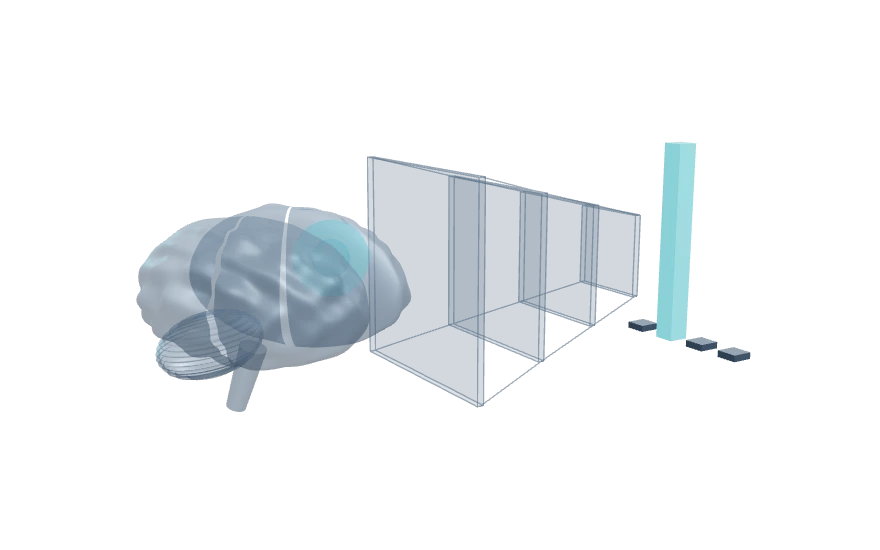
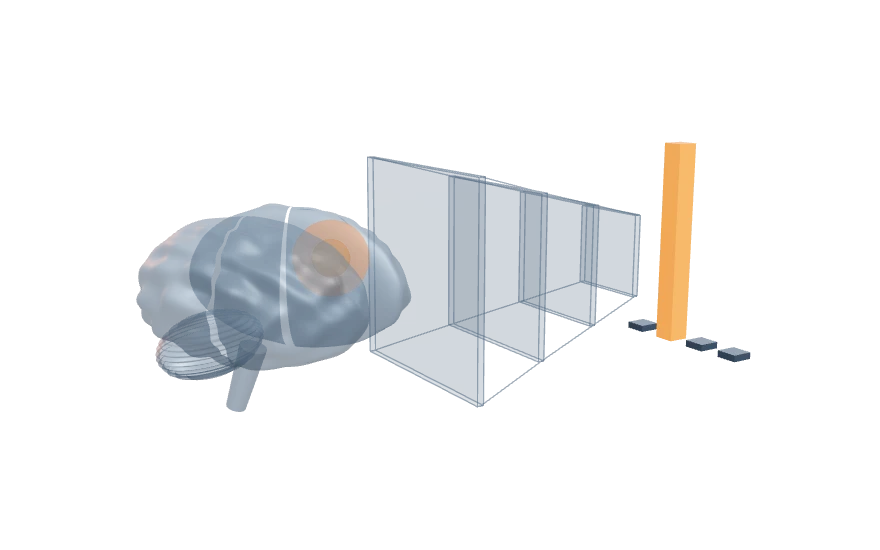
Orange and black theme, detection boxes on every headline, tighter sections
- Theme: light mode is a light neutral page with near-black ink and a deep
  orange accent (#A84300); dark mode keeps its slate and uses #FF8A3D.
  Every text colour stays at WCAG AA (lowest 5.0:1). The favicon, the
  contact terminal card, the four WebGL scenes and the six case-study
  stills (re-rendered from the scenes) follow.
- HeadlineBox: each section heading, the contact heading, case-study
  titles and the 404 title get an object-detection box with a small mono
  label ("work 0.94"), drawn once when it scrolls into view, then kept.
  The label is aria-hidden.
- Hello section: the spoken languages line is removed; the three about
  paragraphs share one size and colour.
- Less space between sections (section padding 24–40px, tighter gaps
  under divider lines and headings).

Changed region(s): [[0.7364, 0.2473, 0.7977, 0.6182], [0.3375, 0.4018, 0.4295, 0.5564]]

diff --git a/src/theme/theme.js b/src/theme/theme.js
@@ -6,15 +6,15 @@
 // alternative the navbar toggle switches to.
 export const theme = {
   colors: {
-    // The look comes from X-ray inspection: a light box (light theme) or film
-    // (dark theme) in cool slate, with one teal for annotations.
+    // Black and orange: near-black ink on a light page (light theme) or X-ray
+    // film in dark slate (dark theme), with one orange for annotations.
     // Every text colour reaches WCAG AA (4.5:1) on bg, surface and surfaceSoft.
     // Ratios below are listed as bg / surface / surfaceSoft.
     //
     // Dark: X-ray film. Blue-black, not neutral black.
     //   text 15.0 / 13.7 / 12.6    soft 10.1 / 9.2 / 8.5    muted 5.9 / 5.4 / 4.9
-    //   accent 8.9 / 8.2 / 7.5    highlight 11.5 / 10.5 / 9.6
-    //   onAccent on accent: 8.9
+    //   accent 7.6 / 7.0 / 6.4    highlight 10.2 / 9.3 / 8.6
+    //   onAccent on accent: 7.6
     dark: {
       bg: "#0E1822",
       surface: "#15212C",
@@ -26,34 +26,33 @@ export const theme = {
       muted: "#8796A4",
       // Decorative only (bullets, scrollbar): too low contrast for text.
       mutedSoft: "#4A5B6C",
-      accent: "#4FC7D6",
+      accent: "#FF8A3D",
       onAccent: "#0E1822",
       status: "#6fd88f",
-      // A paler teal from the accent family.
-      highlight: "#8ADCE6",
+      // A paler orange from the accent family.
+      highlight: "#FFB37D",
     },
-    // Default. Light box: cool film-white and slate ink.
-    //   text 14.2 / 16.1 / 13.1    soft 9.2 / 10.5 / 8.5    muted 5.2 / 5.9 / 4.8
-    //   accent 5.3 / 6.0 / 4.8    highlight 7.2 / 8.1 / 6.6
-    //   onAccent (white) on accent: 6.0
+    // Default. A light page with near-black ink and a deep orange (neutral greys, no blue).
+    //   text 16.8 / 18.9 / 15.5    soft 12.1 / 13.6 / 11.2    muted 6.2 / 6.9 / 5.7
+    //   accent 5.4 / 6.1 / 5.0    highlight 7.1 / 8.0 / 6.6
+    //   onAccent (white) on accent: 6.1
     light: {
-      bg: "#EEF1F4",
+      bg: "#F2F2F0",
       surface: "#FFFFFF",
-      surfaceSoft: "#E3E8ED",
-      border: "#CDD5DD",
-      borderStrong: "#A9B4BF",
-      text: "#17222E",
-      soft: "#33414F",
-      // Slightly darker than #5B6B7A, which was only 4.45:1 on surfaceSoft.
-      muted: "#566676",
+      surfaceSoft: "#E9E9E6",
+      border: "#D6D6D2",
+      borderStrong: "#B5B5B0",
+      text: "#111111",
+      soft: "#2E2E2E",
+      muted: "#5A5A5A",
       // Decorative only, like dark's mutedSoft.
-      mutedSoft: "#A9B4BF",
-      accent: "#0C6E7A",
+      mutedSoft: "#B5B5B0",
+      accent: "#A84300",
       onAccent: "#FFFFFF",
-      // Graphics only (the status dot): 3.0 / 3.5 / 2.8, below the 4.5:1 needed for text.
+      // Graphics only (the status dot): below the 4.5:1 needed for text.
       status: "#1E9E55",
-      // A deeper teal from the accent family.
-      highlight: "#095863",
+      // A deeper orange from the accent family.
+      highlight: "#8A3700",
     },
   },
 
@@ -104,7 +103,7 @@ export const theme = {
   },
 
   spacing: {
-    section: "clamp(36px, 4.5vw, 64px)",
+    section: "clamp(24px, 3vw, 40px)", // top and bottom padding of every section (kept tight)
     gutter: "24px",
   },
 

diff --git a/src/components/ui/HeadlineBox.css b/src/components/ui/HeadlineBox.css
@@ -1,0 +1,63 @@
+/* ---------- a headline's detection box (HeadlineBox.jsx) ----------
+   Same look as the hero name's box (Hero.css .detect-box): a 1px accent frame
+   8px around the text, nearly square corners, a small mono label on top. */
+
+.headline-box {
+  --box-colour: var(--accent);
+  --box-ink: var(--on-accent);
+
+  position: relative;
+  display: inline-block;
+}
+
+/* The frame. */
+.headline-box::before {
+  position: absolute;
+  inset: -8px;
+  border: 1px solid var(--box-colour);
+  border-radius: 4px; /* kept nearly square: a real bounding box */
+  pointer-events: none;
+  content: "";
+  animation: headline-box-in 0.7s var(--ease) 0.25s both;
+}
+
+.headline-box-label {
+  position: absolute;
+  bottom: calc(100% + 11px); /* 8px frame padding + 3px gap, like the hero's */
+  left: -9px;
+  padding: 1px 6px;
+  border-radius: 4px 4px 4px 0; /* square where it meets its box */
+  background: var(--box-colour);
+  color: var(--box-ink);
+  font-family: var(--font-mono); /* detection output: the one place mono belongs */
+  font-size: 10.5px;
+  font-weight: 500;
+  letter-spacing: 0;
+  line-height: 1.4;
+  white-space: nowrap;
+  animation: headline-box-in 0.7s var(--ease) 0.25s both;
+}
+
+@keyframes headline-box-in {
+  from {
+    opacity: 0;
+    transform: scale(1.03);
+  }
+  to {
+    opacity: 1;
+    transform: scale(1);
+  }
+}
+
+/* Inside a Reveal, wait until it scrolls into view, then draw once. */
+.js .reveal:not(.is-visible) .headline-box::before,
+.js .reveal:not(.is-visible) .headline-box-label {
+  animation-play-state: paused;
+}
+
+@media print {
+  .headline-box::before,
+  .headline-box-label {
+    display: none;
+  }
+}

diff --git a/src/components/Connect/Connect.css b/src/components/Connect/Connect.css
@@ -2,15 +2,16 @@
    A screen, so it stays dark in BOTH themes. Its colours live here as custom
    properties (asked for this card), the one exception to theme.js holding every
    colour; nothing below uses a raw hex value. Contrast on --term-bg:
-   text 15.5:1, muted 6.1:1, link grey 12.9:1, accent on the say-hi fill 7.0:1. */
+   text 15.5:1, muted 6.1:1, link grey 12.3:1, orange accent on the say-hi fill 6.3:1
+   (5.1:1 on hover). */
 .term {
   --term-bg: #0b141c;
   --term-border: #26364a;
   --term-text: #e6ecf1;
   --term-muted: #8796a4;
-  --term-accent: #4fc7d6;
+  --term-accent: #ff8a3d;
   --term-link: #c9d4dd;
-  --term-accent-rgb: 79, 199, 214;
+  --term-accent-rgb: 255, 138, 61;
 
   padding: clamp(20px, 4vw, 40px);
   border: 1px solid var(--term-border);
@@ -29,6 +30,12 @@
   box-shadow:
     inset 0 0 0 1px rgba(var(--term-accent-rgb), 0.08),
     0 24px 48px -24px rgba(23, 34, 46, 0.35);
+}
+
+/* The heading's detection box in the card's own orange (the page accent is too dark here). */
+.term .headline-box {
+  --box-colour: var(--term-accent);
+  --box-ink: var(--term-bg);
 }
 
 .term :focus-visible {
@@ -69,7 +76,7 @@
 /* ---------- content ---------- */
 
 .term-heading {
-  margin: 16px 0 10px;
+  margin: 38px 0 10px; /* 16px, plus room for the detection box's label */
   color: var(--term-text);
   font-family: var(--font-display);
   font-size: clamp(1.5rem, 3vw, 2.2rem);

diff --git a/src/components/Contact/Contact.jsx b/src/components/Contact/Contact.jsx
@@ -5,8 +5,6 @@ import { SkillCards } from "../SkillCards/SkillCards";
 import { SectionHeader } from "../ui/SectionHeader";
 import "./Contact.css";
 
-const tools = aboutInfo.skillGroups.filter((group) => !group.spoken);
-const spoken = aboutInfo.skillGroups.filter((group) => group.spoken);
 
 export class Contact extends Component {
   render() {
@@ -29,16 +27,10 @@ export class Contact extends Component {
             ))}
           </Reveal>
 
-          {/* A slow belt of cards, one per tool group (SkillCards).
-              Spoken languages aren't tools, so they follow as a plain line of text. */}
+          {/* A slow belt of cards, one per skill group (SkillCards). */}
           <Reveal as="div" className="hello-skills" style={{ "--i": 2 }}>
             <h3 className="k">skills</h3>
-            <SkillCards groups={tools} />
-            {spoken.map((group) => (
-              <p className="hello-line" key={group.name}>
-                <span className="hello-line-k">{group.name}:</span> {group.items.join(", ")}
-              </p>
-            ))}
+            <SkillCards groups={aboutInfo.skillGroups} />
           </Reveal>
         </div>
       </section>

diff --git a/src/utils/brainCnnGL.js b/src/utils/brainCnnGL.js
@@ -41,8 +41,8 @@ import { RoomEnvironment } from "three/addons/environments/RoomEnvironment.js";
 // ---------- colours (the hero's palette) ----------
 
 const PALETTE = {
-  light: { metal: "#7F90A1", accent: "#0C6E7A", brainOpacity: 0.62, glassOpacity: 0.16, lineOpacity: 0.6, glow: 0.22, pulse: 1 },
-  dark: { metal: "#5E7286", accent: "#4FC7D6", brainOpacity: 0.55, glassOpacity: 0.14, lineOpacity: 0.55, glow: 0.35, pulse: 1.4 },
+  light: { metal: "#8C8C88", accent: "#A84300", brainOpacity: 0.62, glassOpacity: 0.16, lineOpacity: 0.6, glow: 0.22, pulse: 1 },
+  dark: { metal: "#5E7286", accent: "#FF8A3D", brainOpacity: 0.55, glassOpacity: 0.14, lineOpacity: 0.55, glow: 0.35, pulse: 1.4 },
 };
 const ENV_INTENSITY = 0.45;
 
@@ -174,7 +174,7 @@ export class BrainCnnGL {
     this.scene.environment = this.envTarget.texture;
     const key = new DirectionalLight(0xffffff, 0.9);
     key.position.set(3, 4, 5);
-    const rim = new DirectionalLight(0x4fc7d6, 0.55);
+    const rim = new DirectionalLight(0xff8a3d, 0.55);
     rim.position.set(-4, 2, -5);
     this.scene.add(key, rim, new AmbientLight(0xffffff, 0.35));
 

diff --git a/src/utils/neuralNet3dGL.js b/src/utils/neuralNet3dGL.js
@@ -45,8 +45,8 @@ import { CYCLE_MS, DOT_FADE, ROTATION_PERIOD_MS, START_ANGLE, WAVE_WIDTH, buildS
 // ---------- look (fixed values, same lighting in light and dark) ----------
 
 const PALETTE = {
-  dark: { neuron: "#5E7286", tube: "#2E3E50", forward: "#4FC7D6", backward: "#8796A4", fogNear: 7, fogFar: 13 },
-  light: { neuron: "#7F90A1", tube: "#A9B4BF", forward: "#0C6E7A", backward: "#536373", fogNear: 7.5, fogFar: 14 },
+  dark: { neuron: "#5E7286", tube: "#2E3E50", forward: "#FF8A3D", backward: "#8796A4", fogNear: 7, fogFar: 13 },
+  light: { neuron: "#8C8C88", tube: "#B5B5B0", forward: "#A84300", backward: "#5A5A5A", fogNear: 7.5, fogFar: 14 },
 };
 const GLOW = {
   dark: { emissive: 1.0, sprite: 0.45, dot: 1.3, blending: AdditiveBlending },
@@ -138,7 +138,7 @@ export class NeuralNetGL {
 
     const key = new DirectionalLight(0xffffff, 0.9);
     key.position.set(3, 4, 5);
-    const rim = new DirectionalLight(0x4fc7d6, 0.55);
+    const rim = new DirectionalLight(0xff8a3d, 0.55);
     rim.position.set(-4, 2, -5);
     this.scene.add(key, rim, new AmbientLight(0xffffff, 0.35));
 

diff --git a/src/utils/emotionPipelineGL.js b/src/utils/emotionPipelineGL.js
@@ -42,8 +42,8 @@ import { RoomEnvironment } from "three/addons/environments/RoomEnvironment.js";
 // ---------- colours (the hero's palette) ----------
 
 const PALETTE = {
-  light: { metal: "#7F90A1", accent: "#0C6E7A", faceDark: 0.45, mapOpacity: 0.16, lineOpacity: 0.6, pulse: 1 },
-  dark: { metal: "#5E7286", accent: "#4FC7D6", faceDark: 0.35, mapOpacity: 0.14, lineOpacity: 0.55, pulse: 1.4 },
+  light: { metal: "#8C8C88", accent: "#A84300", faceDark: 0.45, mapOpacity: 0.16, lineOpacity: 0.6, pulse: 1 },
+  dark: { metal: "#5E7286", accent: "#FF8A3D", faceDark: 0.35, mapOpacity: 0.14, lineOpacity: 0.55, pulse: 1.4 },
 };
 const ENV_INTENSITY = 0.45;
 const WHITE = new Color(0xffffff);
@@ -146,7 +146,7 @@ export class EmotionPipelineGL {
     this.scene.environment = this.envTarget.texture;
     const key = new DirectionalLight(0xffffff, 0.9);
     key.position.set(3, 4, 5);
-    const rim = new DirectionalLight(0x4fc7d6, 0.55);
+    const rim = new DirectionalLight(0xff8a3d, 0.55);
     rim.position.set(-4, 2, -5);
     this.scene.add(key, rim, new AmbientLight(0xffffff, 0.35));
 

diff --git a/src/components/ui/SectionHeader.jsx b/src/components/ui/SectionHeader.jsx
@@ -1,5 +1,6 @@
 import { Component } from "react";
 import { navLink } from "../../data/nav";
+import { HeadlineBox } from "./HeadlineBox";
 import "./SectionHeader.css";
 
 /**
@@ -10,13 +11,19 @@ import "./SectionHeader.css";
 export class SectionHeader extends Component {
   render() {
     const { id, title, sub, as: Heading = "h2" } = this.props;
+    const name = navLink(id).label;
 
+    // Every heading gets a detection box labelled with its section's name.
     return (
       <header className="section-header">
         {title ? (
-          <Heading className="section-header-title">{title}</Heading>
+          <Heading className="section-header-title">
+            <HeadlineBox label={name}>{title}</HeadlineBox>
+          </Heading>
         ) : (
-          <Heading className="section-header-label">{navLink(id).label}</Heading>
+          <Heading className="section-header-label">
+            <HeadlineBox label={name}>{name}</HeadlineBox>
+          </Heading>
         )}
         {sub ? <p className="section-header-sub">{sub}</p> : null}
       </header>

diff --git a/src/components/ui/HeadlineBox.jsx b/src/components/ui/HeadlineBox.jsx
@@ -1,0 +1,30 @@
+import { PureComponent } from "react";
+import "./HeadlineBox.css";
+
+/** A detector-style confidence for a label: fixed per text, between 0.93 and 0.98. */
+const confidence = (text) => {
+  let sum = 0;
+  for (const char of text) sum += char.charCodeAt(0);
+  return (0.93 + (sum % 6) / 100).toFixed(2);
+};
+
+/**
+ * Wraps a headline's text in an object-detection bounding box with a small
+ * label ("work 0.96"), like the hero name's box but drawn once and kept. Pure
+ * CSS: in the pre-rendered page, drawn in when its Reveal becomes visible
+ * (straight away outside a Reveal). The label is decoration (aria-hidden), so
+ * the heading's accessible name is only its text.
+ */
+export class HeadlineBox extends PureComponent {
+  render() {
+    const { label, children } = this.props;
+    return (
+      <span className="headline-box">
+        {children}
+        <span className="headline-box-label" aria-hidden="true">
+          {label} {confidence(label)}
+        </span>
+      </span>
+    );
+  }
+}

diff --git a/src/utils/forecastCurtainsGL.js b/src/utils/forecastCurtainsGL.js
@@ -44,8 +44,8 @@ import { RoomEnvironment } from "three/addons/environments/RoomEnvironment.js";
 // ---------- colours (the hero's palette) ----------
 
 const PALETTE = {
-  light: { metal: "#7F90A1", forecast: "#0C6E7A", grid: "#C9D2DB", glass: 0.07 },
-  dark: { metal: "#5E7286", forecast: "#4FC7D6", grid: "#22324A", glass: 0.06 },
+  light: { metal: "#8C8C88", forecast: "#A84300", grid: "#D6D6D2", glass: 0.07 },
+  dark: { metal: "#5E7286", forecast: "#FF8A3D", grid: "#22324A", glass: 0.06 },
 };
 const ENV_INTENSITY = 0.45;
 
@@ -151,7 +151,7 @@ export class ForecastCurtainsGL {
     this.scene.environment = this.envTarget.texture;
     const key = new DirectionalLight(0xffffff, 0.9);
     key.position.set(3, 4, 5);
-    const rim = new DirectionalLight(0x4fc7d6, 0.55);
+    const rim = new DirectionalLight(0xff8a3d, 0.55);
     rim.position.set(-4, 2, -5);
     this.scene.add(key, rim, new AmbientLight(0xffffff, 0.35));
 

diff --git a/src/components/CaseStudy/CaseStudy.jsx b/src/components/CaseStudy/CaseStudy.jsx
@@ -6,6 +6,7 @@ import { CaseVisual } from "./CaseVisual";
 import { hasCaseVisual } from "./caseVisuals";
 import { ProjectThumb } from "../Project/ProjectThumb";
 import { TechList } from "../Project/TechList";
+import { HeadlineBox } from "../ui/HeadlineBox";
 import "./CaseStudy.css";
 
 // The first three of the four points every case study answers; the fourth,
@@ -36,7 +37,9 @@ export class CaseStudy extends Component {
                 case study {String(index + 1).padStart(2, "0")}
                 {project.team ? " · team project" : ""}
               </p>
-              <h1 className="case-title">{project.title}</h1>
+              <h1 className="case-title">
+                <HeadlineBox label="project">{project.title}</HeadlineBox>
+              </h1>
               <p className="case-what">{project.what}</p>
               <TechList items={project.tech} />
               <p className="case-links">

diff --git a/src/data/profile.js b/src/data/profile.js
@@ -49,7 +49,6 @@ export const aboutInfo = {
     "most recently, i took an AI-based X-ray inspection system at STMicroelectronics from prototype to production deployment.",
   ],
   // Grouped by area, no percentage bars. Matches the resume (public/resume/).
-  // `spoken: true` marks human languages: shown as a line of text, not as tool chips.
   skillGroups: [
     { name: "programming", items: ["Python", "SQL"] },
     { name: "machine learning", items: ["scikit-learn", "XGBoost", "Pandas", "NumPy"] },
@@ -59,6 +58,5 @@ export const aboutInfo = {
     { name: "web", items: ["FastAPI", "Flask", "WebSockets", "Vue.js"] },
     { name: "databases", items: ["MySQL", "MariaDB"] },
     { name: "MLOps & cloud", items: ["MLflow", "DVC", "Docker", "Git", "CI/CD", "AWS (EC2, S3)"] },
-    { name: "languages", spoken: true, items: ["english (C2)", "french (A2, working towards B1)"] },
   ],
 };
